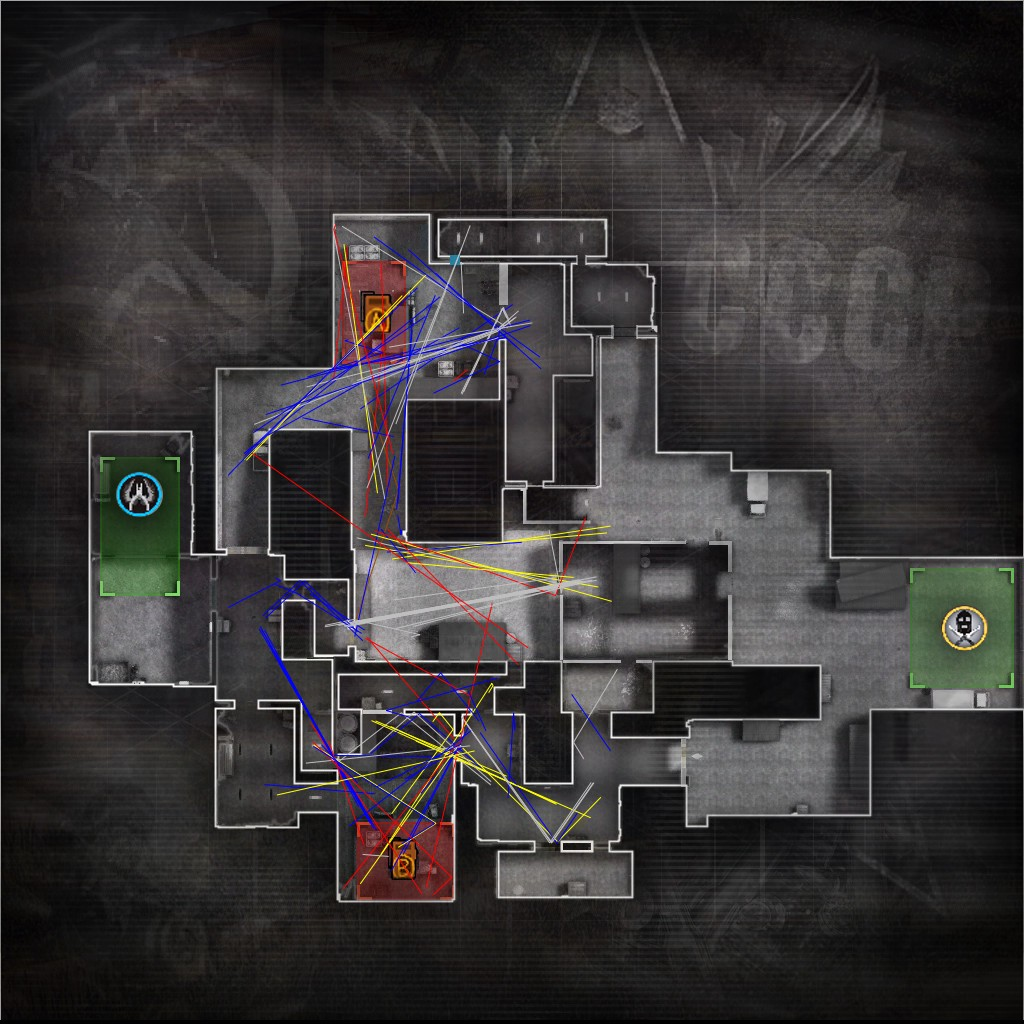
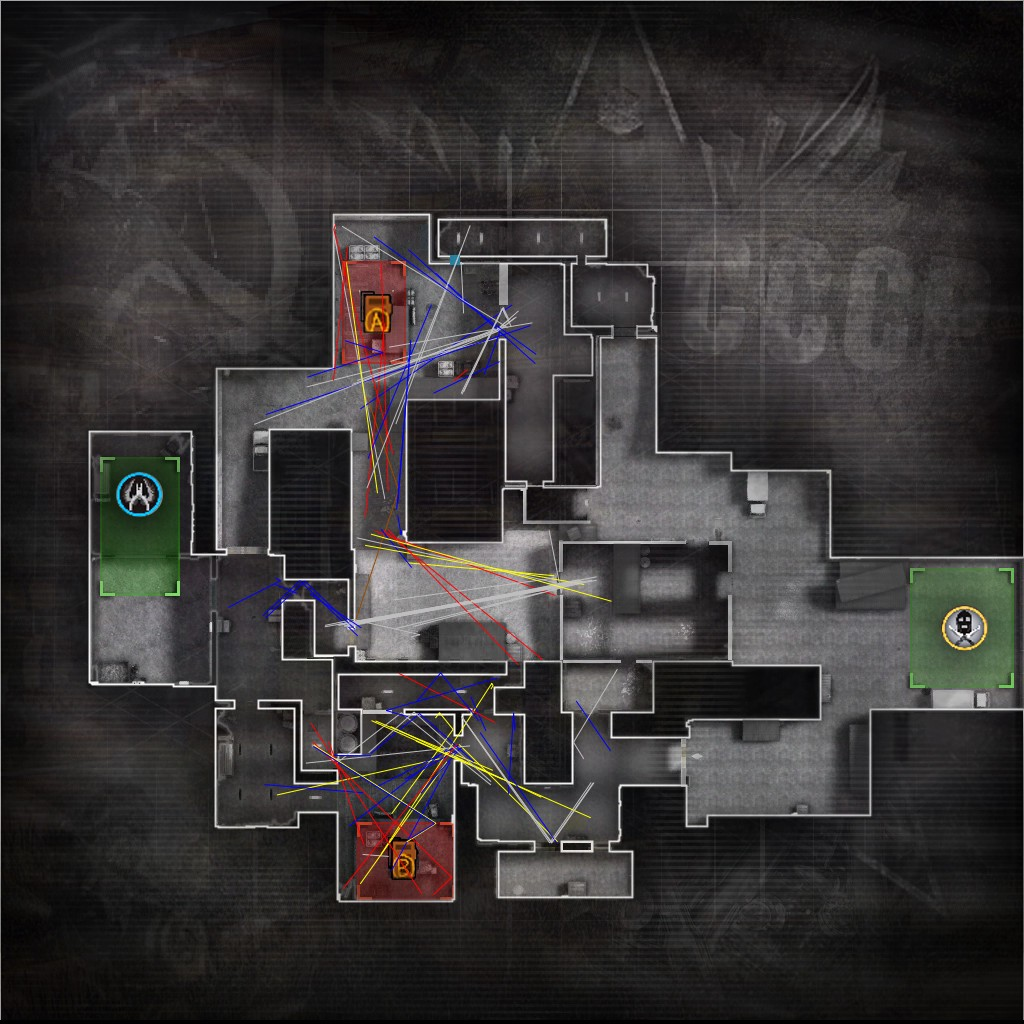
Fix molotov & incendiary never being deleted (#32)
Add Entity.OnDestroy() for pre-deletion actions
Also updated the nade-trajectories example using UniqueID

diff --git a/examples/nade-trajectories/nade_trajectories.go b/examples/nade-trajectories/nade_trajectories.go
@@ -33,7 +33,7 @@ var (
 	colorDecoy color.Color = color.RGBA{0x96, 0x4b, 0x00, 0xff} // Brown, because it's shit :)
 )
 
-// Run like this: go run bouncynades.go -demo /path/to/demo.dem > bouncynades.jpg
+// Run like this: go run nade_trajectories.go -demo /path/to/demo.dem > nade_trajectories.jpg
 func main() {
 	f, err := os.Open(ex.DemoPathFromArgs())
 	checkError(err)
@@ -44,46 +44,25 @@ func main() {
 	_, err = p.ParseHeader()
 	checkError(err)
 
-	nadePaths := make([]*nadePath, 0)           // Paths of detonated projectiles
-	currentNadePaths := make(map[int]*nadePath) // Currently live projectiles
+	nadePaths := make(map[int64]*nadePath) // Currently live projectiles
 
-	storeNadePath := func(entityID int, pos r3.Vector, wep common.EquipmentElement, team common.Team) {
-		if currentNadePaths[entityID] == nil {
-			currentNadePaths[entityID] = &nadePath{
+	storeNadePath := func(id int64, pos r3.Vector, wep common.EquipmentElement, team common.Team) {
+		if nadePaths[id] == nil {
+			nadePaths[id] = &nadePath{
 				wep:  wep,
 				team: team,
 			}
 		}
 
-		currentNadePaths[entityID].path = append(currentNadePaths[entityID].path, pos)
+		nadePaths[id].path = append(nadePaths[id].path, pos)
 	}
 
-	p.RegisterEventHandler(func(e events.NadeEventIf) {
-		ne := e.Base()
-
-		var team common.Team
-		if ne.Thrower != nil {
-			team = ne.Thrower.Team
-		}
-
-		storeNadePath(ne.NadeEntityID, ne.Position, ne.NadeType, team)
-		nadePaths = append(nadePaths, currentNadePaths[ne.NadeEntityID])
-		delete(currentNadePaths, ne.NadeEntityID)
-	})
-
 	p.RegisterEventHandler(func(e events.NadeProjectileThrownEvent) {
-		// Save previous projectile and delete from current, just a safeguard for missing NadeEvents
-		np := currentNadePaths[e.Projectile.EntityID]
-		if np != nil {
-			nadePaths = append(nadePaths, np)
-			delete(currentNadePaths, e.Projectile.EntityID)
-		}
-
-		storeNadePath(e.Projectile.EntityID, e.Projectile.Position, e.Projectile.Weapon, e.Projectile.Thrower.Team)
+		storeNadePath(e.Projectile.UniqueID(), e.Projectile.Position, e.Projectile.Weapon, e.Projectile.Thrower.Team)
 	})
 
 	p.RegisterEventHandler(func(e events.NadeProjectileBouncedEvent) {
-		storeNadePath(e.Projectile.EntityID, e.Projectile.Position, e.Projectile.Weapon, e.Projectile.Thrower.Team)
+		storeNadePath(e.Projectile.UniqueID(), e.Projectile.Position, e.Projectile.Weapon, e.Projectile.Thrower.Team)
 	})
 
 	var nadePathsFirstHalf []*nadePath
@@ -93,8 +72,11 @@ func main() {
 		// Very cheap first half check (we only want the first teams CT-side nades in the example).
 		// Won't work with demos that have match-restarts etc.
 		if round == 15 {
-			nadePathsFirstHalf = nadePaths
-			nadePaths = make([]*nadePath, 0)
+			// Copy all nade paths from the first 15 rounds
+			for _, np := range nadePaths {
+				nadePathsFirstHalf = append(nadePathsFirstHalf, np)
+			}
+			nadePaths = make(map[int64]*nadePath)
 		}
 	})
 
@@ -119,11 +101,6 @@ func main() {
 
 	gc.SetLineWidth(1)                      // 1 px lines
 	gc.SetFillColor(color.RGBA{0, 0, 0, 0}) // No fill, alpha 0
-
-	// Add any pending paths
-	for _, np := range currentNadePaths {
-		nadePaths = append(nadePaths, np)
-	}
 
 	for _, np := range nadePathsFirstHalf {
 		if np.team != common.TeamCounterTerrorists {

diff --git a/sendtables/entity.go b/sendtables/entity.go
@@ -14,6 +14,7 @@ type Entity struct {
 	ID          int
 	ServerClass *ServerClass
 	props       []PropertyEntry
+	onDestroy   []func()
 }
 
 // Props returns all properties (PropertyEntry) for the Entity.
@@ -143,6 +144,18 @@ func (e *Entity) Position() r3.Vector {
 // Returns a coordinate from a cell + offset
 func coordFromCell(cell, cellWidth int, offset float64) float64 {
 	return float64(cell*cellWidth-maxCoordInt) + offset
+}
+
+// OnDestroy registers a function to be called on the entity's destruction.
+func (e *Entity) OnDestroy(delegate func()) {
+	e.onDestroy = append(e.onDestroy, delegate)
+}
+
+// Destroy triggers all via OnDestroy() registered functions.
+func (e *Entity) Destroy() {
+	for _, f := range e.onDestroy {
+		f()
+	}
 }
 
 // NewEntity creates a new Entity with a given id and ServerClass and returns it.

diff --git a/game_events.go b/game_events.go
@@ -3,7 +3,6 @@ package demoinfocs
 import (
 	"fmt"
 	"strconv"
-	"strings"
 
 	r3 "github.com/golang/geo/r3"
 
@@ -183,11 +182,6 @@ func (p *Parser) handleGameEvent(ge *msg.CSVCMsg_GameEvent) {
 			Z: float64(data["z"].ValFloat),
 		}
 		nadeEntityID := int(data["entityid"].GetValShort())
-
-		// Grenade projectiles should be removed once the grenade detonates.
-		if strings.Contains(d.Name, "detonate") || strings.Contains(d.Name, "started") {
-			delete(p.gameState.grenadeProjectiles, nadeEntityID)
-		}
 
 		switch d.Name {
 		case "flashbang_detonate": // Flash exploded

diff --git a/datatables.go b/datatables.go
@@ -367,6 +367,10 @@ func (p *Parser) bindGrenadeProjectiles(event st.EntityCreatedEvent) {
 			Projectile: proj,
 		})
 	})
+
+	event.Entity.OnDestroy(func() {
+		delete(p.gameState.grenadeProjectiles, event.Entity.ID)
+	})
 }
 
 func (p *Parser) bindWeapon(event st.EntityCreatedEvent) {

diff --git a/examples/nade-trajectories/nade_trajectories_test.go b/examples/nade-trajectories/nade_trajectories_test.go
@@ -9,5 +9,12 @@ import (
 func TestBouncyNades(t *testing.T) {
 	os.Args = []string{"cmd", "-demo", "../../cs-demos/default.dem"}
 
+	// Redirect stdout, the resulting image is written to this
+	old := os.Stdout
+	_, w, _ := os.Pipe()
+	os.Stdout = w
+
 	main()
+
+	os.Stdout = old
 }

diff --git a/entities.go b/entities.go
@@ -27,6 +27,7 @@ func (p *Parser) handlePacketEntities(pe *msg.CSVCMsg_PacketEntities) {
 
 		if r.ReadBit() {
 			// Leave PVS
+			p.entities[currentEntity].Destroy()
 			delete(p.entities, currentEntity)
 
 			// 'Force Delete' flag, not exactly sure what it's supposed to do
